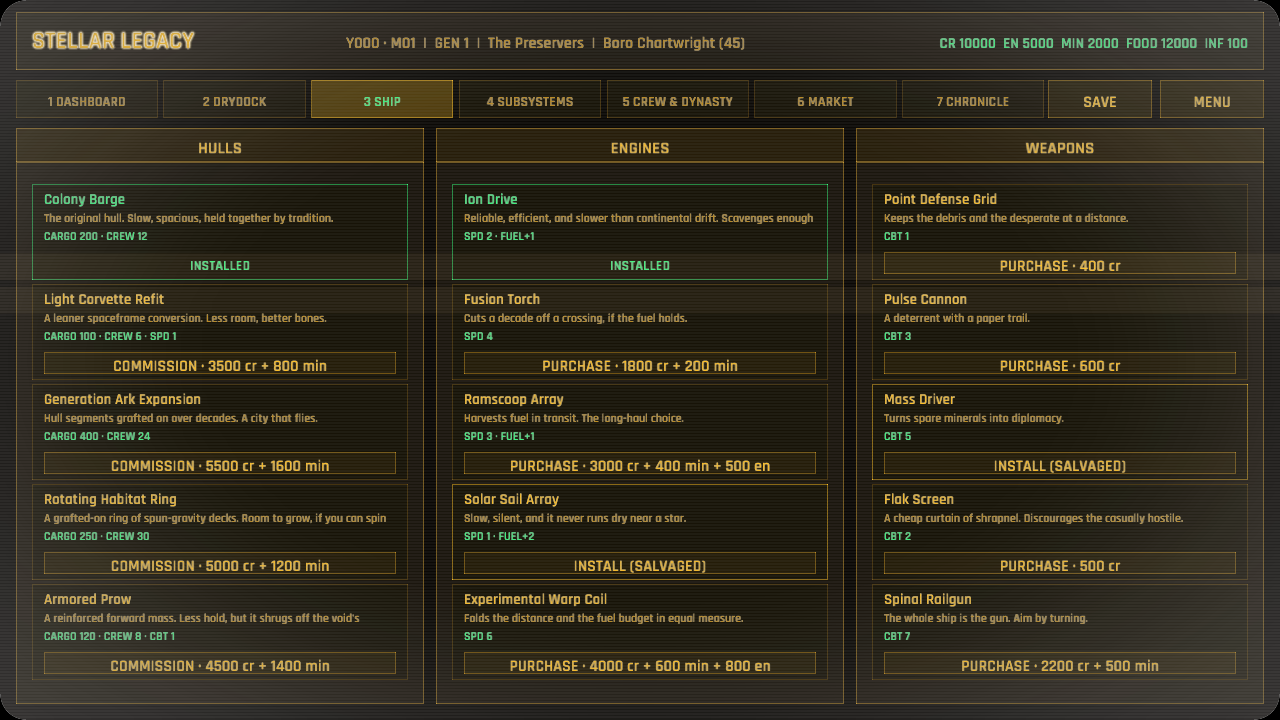
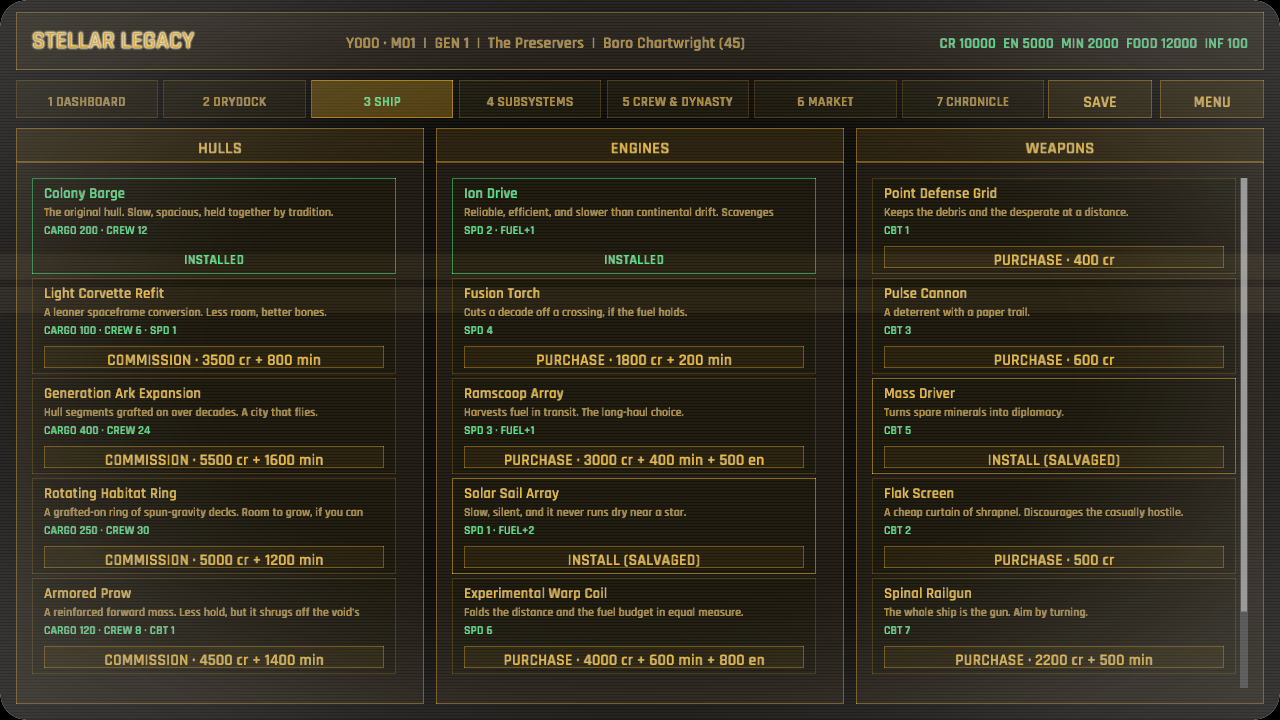
The dead give up gear no yard will sell, and the writ board hands it over (GDD 6 <-> 5.1)
Phase 1 of the ship-upgrade expansion: parts a mission drops that can never
be bought, and a Ship screen that finally handles them.

- New shared `Acquisition { Purchasable, MissionReward }` on ShipComponent.
  A MissionReward part is never for sale: it hides from the catalog until a
  voyage drops it into the salvage hold, then shows as a salvaged/installed
  card wearing a MISSION REWARD tag where a price would sit.
- Three unique unbuyable parts, each recovered by a mission: the Voidfold
  Lattice (alien drive, off the Long Tow salvage), the Singularity Lance
  (relic weapon, off the Vane Default enforcement writ), and the Derelict
  Titan Frame (a dead warship's hull, towed home from the Long Dark rim run).
- The three catalog columns now smooth-scroll (reusing the toolkit
  ScrollArea): a full column plus a found part is one card too tall, and the
  old screen spilled it past the panel edge — now it's reachable.
- Data validation: mission-reward parts must be free and actually granted by
  some mission, and at least one must exist. Catalog-size checks bumped 5->6.

Phase 2 (named subsystem fittings + LOADOUT/MODULES toggle) still to come.

diff --git a/src/data.rs b/src/data.rs
@@ -65,6 +65,28 @@ const SUBSYSTEMS_JSON: &str = include_str!("../assets/subsystems.json");
 const DYNASTY_NAMES_JSON: &str = include_str!("../assets/dynasty_names.json");
 const CREW_ARCHETYPES_JSON: &str = include_str!("../assets/crew_archetypes.json");
 
+/// How a fitting (ship component or subsystem version) is obtained. `Purchasable`
+/// is bought in the drydock at its `cost`; `MissionReward` is never for sale —
+/// it only reaches the ship as a granted part (`grant_component` /
+/// `completion_reward`), dropping into the salvage hold to be installed. A part
+/// may be granted whether it is purchasable or not, so a mission can hand over
+/// either an ordinary catalog part (found early/free) or a unique one that can be
+/// had no other way.
+#[derive(Debug, Clone, Copy, PartialEq, Eq, Default, Serialize, Deserialize)]
+#[serde(rename_all = "snake_case")]
+pub enum Acquisition {
+    #[default]
+    Purchasable,
+    MissionReward,
+}
+
+impl Acquisition {
+    /// True when the part can never be bought — it comes only from a mission.
+    pub fn is_mission_only(self) -> bool {
+        matches!(self, Acquisition::MissionReward)
+    }
+}
+
 /// Signed per-resource change used by event outcomes, costs, and rewards.
 /// Also doubles as an absolute amount set (e.g. starting resources).
 #[derive(Debug, Clone, Copy, PartialEq, Default, Serialize, Deserialize)]
@@ -1971,6 +1993,48 @@ mod tests {
                 "event grant_component '{id}' must be a real ship component"
             );
         }
+        // Mission-reward parts are never sold, so a price on one is dead data —
+        // and a part nobody can buy that no mission grants is unreachable. Collect
+        // every granted id (event outcomes + charter completions) and check that
+        // each mission-only part is reachable, and that at least one exists.
+        let granted_ids: std::collections::HashSet<&String> = data
+            .events
+            .iter()
+            .flat_map(|(_, e)| e.outcomes.iter())
+            .filter_map(|o| o.grant_component.as_ref())
+            .chain(
+                data.contracts
+                    .iter()
+                    .filter_map(|(_, c)| c.completion_reward.grant_component.as_ref()),
+            )
+            .collect();
+        let mut mission_only_parts = 0;
+        for kind in [
+            ship_components::ComponentKind::Hull,
+            ship_components::ComponentKind::Engine,
+            ship_components::ComponentKind::Weapon,
+        ] {
+            for component in data.ship_components.list(kind) {
+                if !component.acquisition.is_mission_only() {
+                    continue;
+                }
+                mission_only_parts += 1;
+                assert!(
+                    component.cost == crate::data::ResourceDelta::default(),
+                    "mission-reward part '{}' carries a price but can never be bought",
+                    component.id
+                );
+                assert!(
+                    granted_ids.contains(&component.id),
+                    "mission-reward part '{}' is granted by no mission — it is unreachable",
+                    component.id
+                );
+            }
+        }
+        assert!(
+            mission_only_parts >= 1,
+            "expected at least one mission-reward ship part, found none"
+        );
         // Content-depth charter↔event coupling: every charter-tag an event gates
         // on must exist on at least one charter, or the event can never fire.
         let charter_tags: std::collections::HashSet<&String> = data
@@ -2557,9 +2621,9 @@ mod tests {
             );
         }
 
-        assert_eq!(data.ship_components.hulls.len(), 5);
-        assert_eq!(data.ship_components.engines.len(), 5);
-        assert_eq!(data.ship_components.weapons.len(), 5);
+        assert_eq!(data.ship_components.hulls.len(), 6);
+        assert_eq!(data.ship_components.engines.len(), 6);
+        assert_eq!(data.ship_components.weapons.len(), 6);
         assert_eq!(data.crew_archetypes.len(), 7);
         // Doubled name pools (§8): 50 given names, 20 surnames + 10 traits
         // per legacy.

diff --git a/src/ui/ship_builder.rs b/src/ui/ship_builder.rs
@@ -5,7 +5,7 @@ use crate::simulation::ship::{install_eligibility, InstallEligibility};
 use crate::ui::{ship_schematic, stat_line, term, term_button, term_panel, GameplayCtx, UiAction};
 use macroquad::prelude::*;
 use macroquad_toolkit::prelude::*;
-use macroquad_toolkit::ui::{draw_ui_text_ex, RectExt};
+use macroquad_toolkit::ui::{draw_ui_text_ex, is_fully_visible, RectExt};
 
 pub fn draw(ctx: &GameplayCtx<'_>, area: Rect, mouse: Vec2, actions: &mut Vec<UiAction>) {
     // Under way the SHIP tab is a status readout, not a shipyard (real-time loop
@@ -23,19 +23,56 @@ pub fn draw(ctx: &GameplayCtx<'_>, area: Rect, mouse: Vec2, actions: &mut Vec<Ui
     ];
     let col_w = (area.w - 24.0) / 3.0;
 
+    const STRIDE: f32 = 100.0;
+    // Gutter reserved at each column's right edge for its scrollbar.
+    const GUTTER: f32 = 12.0;
+    let mut scrolls = ctx.ship_scroll.get();
+
     for (i, (kind, title)) in columns.iter().enumerate() {
         let rect = Rect::new(area.x + i as f32 * (col_w + 12.0), area.y, col_w, area.h);
         term_panel(rect, Some(title));
         let content = rect.inset(16.0);
-        let mut y = content.y + 40.0;
 
-        for component in ctx.data.ship_components.list(*kind) {
-            let installed = is_installed(ctx, *kind, &component.id);
-            let card = Rect::new(content.x, y, content.w, 96.0);
-            draw_component_card(ctx, card, component, installed, mouse, *kind, actions);
-            y += 100.0;
+        // Cards a mission-reward part joins only once owned; the rest are the
+        // buyable catalog. Collect the visible set first so the column can scroll
+        // when it overflows (a full catalog plus a found part is one card too tall).
+        let cards: Vec<&ShipComponent> = ctx
+            .data
+            .ship_components
+            .list(*kind)
+            .iter()
+            .filter(|c| {
+                let installed = is_installed(ctx, *kind, &c.id);
+                let salvaged = ctx.sim.ship.salvage.iter().any(|s| s == &c.id);
+                !c.acquisition.is_mission_only() || installed || salvaged
+            })
+            .collect();
+
+        // Scroll viewport: below the panel header, the full card width less the gutter.
+        let view = Rect::new(
+            content.x,
+            content.y + 34.0,
+            content.w,
+            content.bottom() - (content.y + 34.0),
+        );
+        let card_w = view.w - GUTTER;
+        let content_h = cards.len() as f32 * STRIDE;
+        let scroll = &mut scrolls[i];
+        scroll.update_at(view, content_h, mouse);
+
+        let mut y = view.y - scroll.offset();
+        for component in cards {
+            let card = Rect::new(view.x, y, card_w, 96.0);
+            // Cull partially-scrolled cards so none spills past the panel.
+            if is_fully_visible(card, view) {
+                let installed = is_installed(ctx, *kind, &component.id);
+                draw_component_card(ctx, card, component, installed, mouse, *kind, actions);
+            }
+            y += STRIDE;
         }
+        scroll.draw_scrollbar(view, content_h);
     }
+    ctx.ship_scroll.set(scrolls);
 }
 
 /// The under-way SHIP tab (real-time loop §5): a procedural blueprint of the
@@ -266,6 +303,16 @@ fn draw_component_card(
         )
         .params(),
     );
+    // A part with no catalog price wears its provenance: a mission recovered it,
+    // it cannot be bought, so the tag reads where a price would otherwise sit.
+    if component.acquisition.is_mission_only() {
+        draw_text_right(
+            "MISSION REWARD",
+            rect.right() - 12.0,
+            rect.y + 20.0,
+            TextStyle::new(10.0, term::dim()),
+        );
+    }
     draw_text_block(
         &component.description,
         rect.x + 12.0,

diff --git a/src/game.rs b/src/game.rs
@@ -122,6 +122,10 @@ pub struct Game {
     /// which now outgrows its panel (grouped by objective, all tiers listed).
     /// A `Cell` so the pure-view draw path can update it through `&GameplayCtx`.
     charter_scroll: Cell<ScrollArea>,
+    /// Smooth-scroll state for the SHIP builder's three catalog columns
+    /// (Hull/Engine/Weapon), which overflow once a mission-reward part joins a
+    /// full column. One `ScrollArea` per column.
+    ship_scroll: Cell<[ScrollArea; 3]>,
 }
 
 impl Game {
@@ -195,6 +199,7 @@ impl Game {
             decision_key: None,
             decision_started: 0.0,
             charter_scroll: Cell::new(ScrollArea::new()),
+            ship_scroll: Cell::new([ScrollArea::new(); 3]),
         }
     }
 
@@ -445,6 +450,7 @@ impl Game {
                     run_clock: self.run_clock_for(&gameplay.sim),
                     decision_remaining: self.decision_remaining(&gameplay.sim),
                     charter_scroll: &self.charter_scroll,
+                    ship_scroll: &self.ship_scroll,
                 }),
             }
         };

diff --git a/src/game/capture_scenes.rs b/src/game/capture_scenes.rs
@@ -124,8 +124,13 @@ impl Game {
                     0xC0FFEE,
                     &crate::state::sim::founding_faction_ids(&self.data),
                 );
-                // Seed a salvage hold so the SALVAGE HOLD strip shows (M4.4).
-                sim.ship.salvage = vec!["mass_driver".to_owned(), "solar_sail".to_owned()];
+                // Seed a salvage hold so the SALVAGE HOLD strip shows (M4.4), incl.
+                // a mission-reward part so its MISSION REWARD tag + install state show.
+                sim.ship.salvage = vec![
+                    "mass_driver".to_owned(),
+                    "solar_sail".to_owned(),
+                    "singularity_lance".to_owned(),
+                ];
                 let mut gameplay = GameplayState::new(sim);
                 gameplay.screen = Screen::ShipBuilder;
                 self.state = crate::state::GameState::Gameplay(Box::new(gameplay));

diff --git a/src/data/ship_components.rs b/src/data/ship_components.rs
@@ -1,6 +1,6 @@
 //! Ship component catalog: hulls, engines, weapons (GDD §6).
 
-use crate::data::ResourceDelta;
+use crate::data::{Acquisition, ResourceDelta};
 use serde::{Deserialize, Serialize};
 
 #[derive(Debug, Clone, Copy, PartialEq, Eq, Serialize, Deserialize)]
@@ -33,6 +33,12 @@ pub struct ShipComponent {
     /// drydock (PLAN M4.4)? Engines/weapons are modular; hulls are structural.
     #[serde(default)]
     pub field_installable: bool,
+    /// How the part is obtained. `MissionReward` parts are never sold — they hide
+    /// from the buy catalog and only surface once a mission drops them into the
+    /// salvage hold. Defaults to `Purchasable` so existing catalog entries are
+    /// unchanged.
+    #[serde(default)]
+    pub acquisition: Acquisition,
 }
 
 #[derive(Debug, Clone, Serialize, Deserialize)]

diff --git a/src/ui.rs b/src/ui.rs
@@ -858,6 +858,10 @@ pub struct GameplayCtx<'a> {
     /// outgrows its panel). A `Cell` so this pure-view path can update the offset
     /// through the shared `&GameplayCtx` without threading `&mut` everywhere.
     pub charter_scroll: &'a std::cell::Cell<macroquad_toolkit::ui::ScrollArea>,
+    /// Smooth-scroll state for the SHIP builder's three catalog columns, so a
+    /// column that overflows (e.g. a mission-reward part added to a full one)
+    /// stays reachable. Indexed Hull / Engine / Weapon.
+    pub ship_scroll: &'a std::cell::Cell<[macroquad_toolkit::ui::ScrollArea; 3]>,
 }
 
 pub fn draw_gameplay(ctx: GameplayCtx<'_>) -> Vec<UiAction> {
